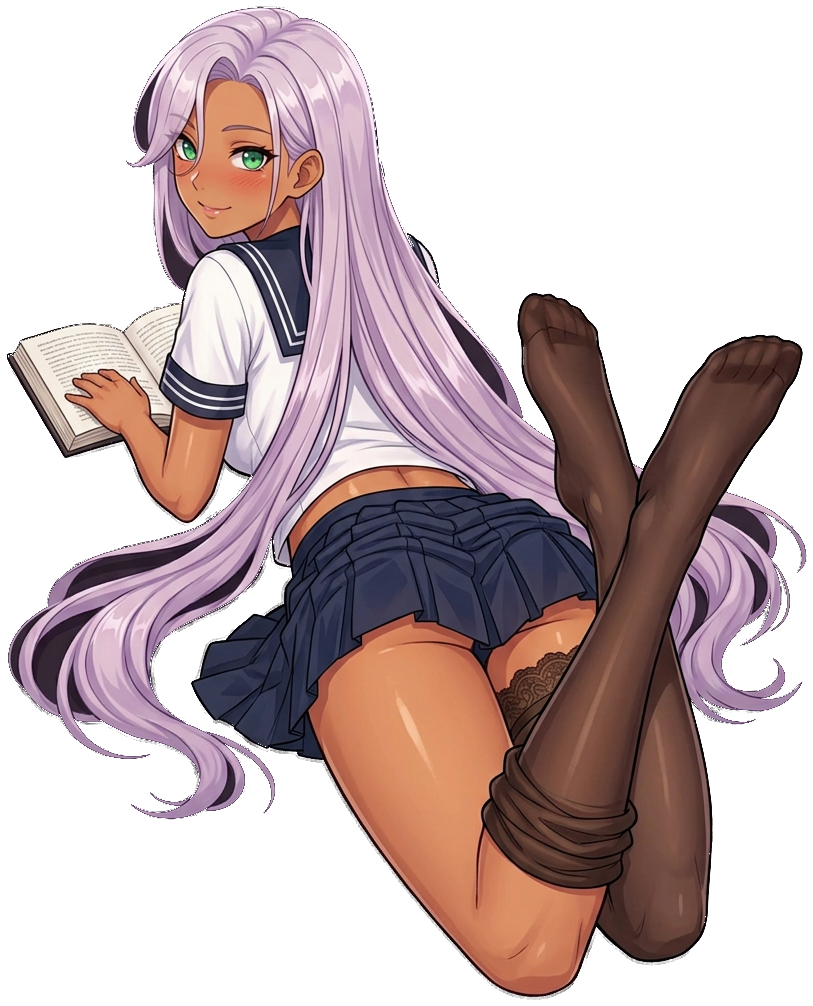
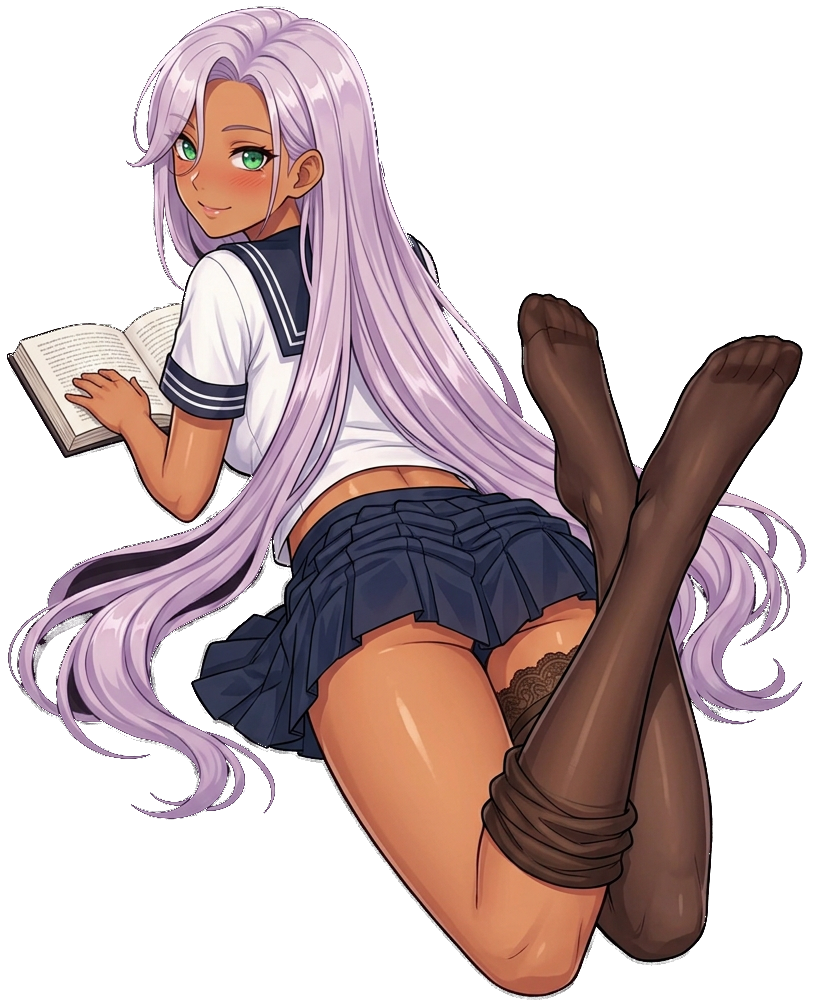
BLOCK I: snappy leg kicks + transparent hair gaps
Leg swing: the 6.8s sine crossfade kept both shin frames half-mixed for
seconds and read as ghosting.  Now each frame holds crisp and snaps to
the other in 340ms on a 3s cycle — a lively kick-pause-kick rhythm;
frames only mix during the short blends.

Hair gaps: the cutout's fill-holes step had baked the flat purple
studio backdrop into pockets enclosed by hair strands.  A per-blob
classifier (flat BG color + bright hair ring, so dark skirt/stocking
shading is untouched) re-keys those pockets to transparent in the base
plate and the legs patch — the floor boards now show through the hair.
tsc clean, tests 72/72, live DPR3 QA re-verified.

diff --git a/tests/carpetScene.test.ts b/tests/carpetScene.test.ts
@@ -148,21 +148,32 @@ test("CARPET SCENE: reaction envelopes rise, hold and fully decay", () => {
   }
 });
 
-test("CARPET SCENE: the crossed shins swing forever without a seam", () => {
+test("CARPET SCENE: the crossed shins kick without ghosting", () => {
   const period = CARPET_MOTION.legSwingPeriodMs;
-  // Starts on the base frame, peaks on the leaned-back frame mid-cycle,
-  // returns to the base frame at the period boundary.
+  const trans = CARPET_MOTION.legSwingTransitionMs;
+  // Starts crisp on the base frame, crisp on the kicked frame mid-cycle,
+  // back to the base frame at the loop point.
   assert.equal(carpetLegSwingAt(0), 0);
   assert.ok(Math.abs(carpetLegSwingAt(period / 2) - 1) < 1e-9);
   assert.ok(carpetLegSwingAt(period) < 1e-9);
-  // Continuous: no frame-to-frame jump bigger than a few percent.
+  // Continuous (no pops), but each blend is quick — the mixed-frames
+  // window must cover only a small share of the cycle.
   let prev = carpetLegSwingAt(0);
+  let mixedMs = 0;
   for (let t = 16; t <= period * 2; t += 16) {
     const v = carpetLegSwingAt(t);
     assert.ok(v >= 0 && v <= 1, `swing ${v} out of range`);
-    assert.ok(Math.abs(v - prev) < 0.03, `swing jumps at ${t}ms`);
+    assert.ok(Math.abs(v - prev) < 0.12, `swing pops at ${t}ms`);
+    if (v > 0.02 && v < 0.98) mixedMs += 16;
     prev = v;
   }
+  assert.ok(
+    mixedMs < 2 * 2 * trans + 100,
+    `frames stay mixed ${mixedMs}ms over two cycles — ghosting`,
+  );
+  // The kick itself must be snappy and the rhythm lively.
+  assert.ok(trans <= 500, "transition too slow");
+  assert.ok(period <= 4_000, "swing rhythm too sluggish");
 });
 
 test("CARPET SCENE: stocking slips once per ambient cycle and resets", () => {
@@ -196,7 +207,6 @@ test("CARPET SCENE: ambient amplitudes stay subtle on the shipped plate", () => 
   // the plate — she breathes gently, the body never balloons.
   const worst = CARPET_MOTION.breathScale + CARPET_MOTION.pulseScale;
   assert.ok(worst < 0.015, `combined amplitude ${worst} too strong`);
-  // The leg swing crossfade is the main motion; its period is slow and
-  // readable, not a flicker.
-  assert.ok(CARPET_MOTION.legSwingPeriodMs >= 4_000);
+  // The leg swing is the main motion; lively but never a flicker.
+  assert.ok(CARPET_MOTION.legSwingPeriodMs >= 2_000);
 });

diff --git a/src/heroine/carpet/carpetScene.ts b/src/heroine/carpet/carpetScene.ts
@@ -82,7 +82,14 @@ export const CARPET_MOTION = {
   breathPeriodMs: 4_000,
   breathScale: 0.0035,
   /** Full back-and-forth period of the crossed-shins swing. */
-  legSwingPeriodMs: 6_800,
+  legSwingPeriodMs: 3_000,
+  /**
+   * Duration of each snap between the two shin frames.  A slow sine
+   * crossfade kept both frames half-visible for seconds (ghosting);
+   * instead each frame HOLDS crisp and the blend lasts only this long —
+   * a lively kick-pause-kick rhythm.
+   */
+  legSwingTransitionMs: 340,
   /** Damped squash of one tap reaction (she presses into the floor). */
   pulseMs: 640,
   pulseScale: 0.009,
@@ -162,12 +169,18 @@ export function carpetPulseAt(ageMs: number): number {
 
 /**
  * Crossfade weight of the leaned-back shins frame at loop time `timeMs`:
- * eases 0 -> 1 -> 0 over the swing period, so the crossed feet swing
- * back and forth forever without a visible seam.
+ * holds crisp frame A, snaps to crisp frame B mid-cycle, snaps back at
+ * the loop point — the crossed feet kick back and forth forever, and
+ * the two frames only mix during the short transitions (no ghosting).
  */
 export function carpetLegSwingAt(timeMs: number): number {
-  const phase = (2 * Math.PI * timeMs) / CARPET_MOTION.legSwingPeriodMs;
-  return 0.5 - 0.5 * Math.cos(phase);
+  const period = CARPET_MOTION.legSwingPeriodMs;
+  const f = CARPET_MOTION.legSwingTransitionMs / period;
+  const phase = (((timeMs % period) + period) % period) / period;
+  if (phase < 0.5 - f) return 0;
+  if (phase < 0.5) return smoothstep((phase - (0.5 - f)) / f);
+  if (phase < 1 - f) return 1;
+  return 1 - smoothstep((phase - (1 - f)) / f);
 }
 
 /** Ambient stocking weight inside the long cycle at loop time `timeMs`. */
